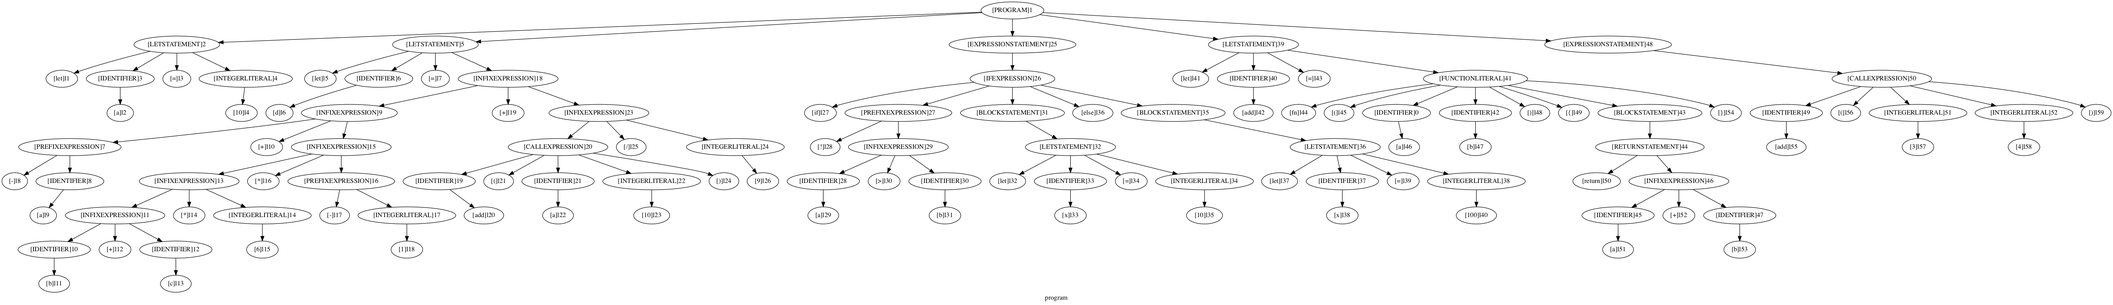
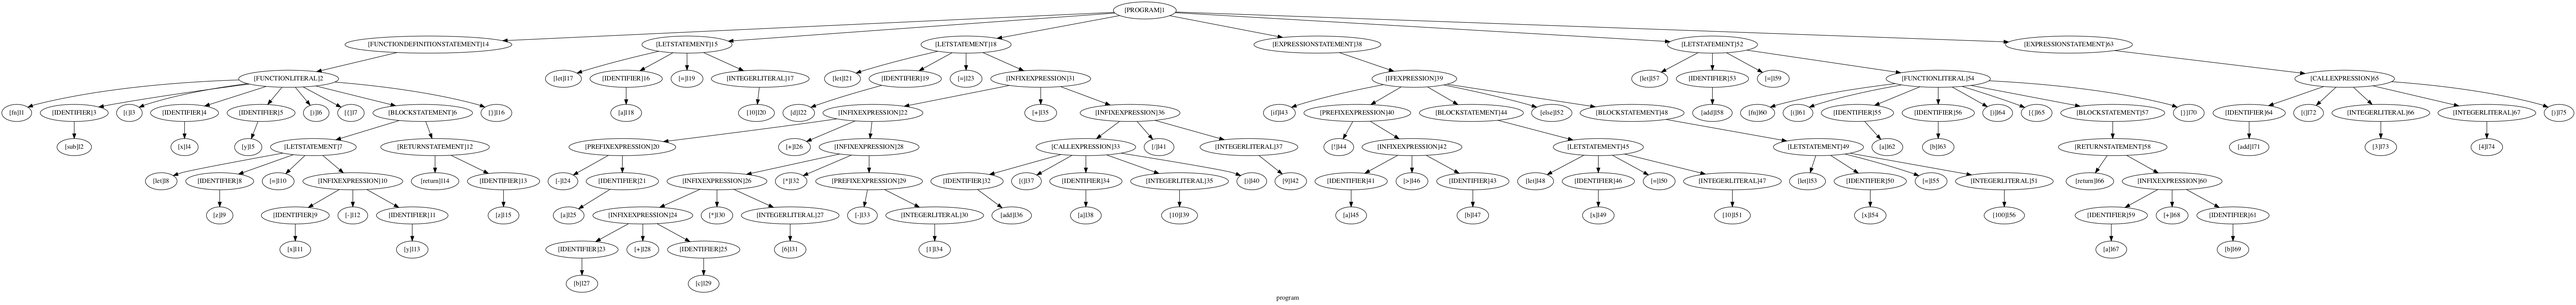
fix bugs

diff --git a/parser/parser.go b/parser/parser.go
@@ -387,6 +387,11 @@ func (p *Parser) parseStatement() ast.Statement {
 		//return p.parseAssignStatement()
 	case token.WHILE:
 		return p.parseWhileStatement()
+	case token.FUNCTION:
+		if p.peekTokenIs(token.IDENT) {
+			return p.parseFunctionDefinitionStatement()
+		}
+		return p.parseExpressionStatement()
 	default:
 		return p.parseExpressionStatement()
 	}
@@ -558,7 +563,11 @@ func (p *Parser) parseLetStatement() *ast.LetStatement {
 	stmt.Value = p.parseExpression(LOWEST)
 
 	if fl, ok := stmt.Value.(*ast.FunctionLiteral); ok {
-		fl.Name = stmt.Name.Value
+		//fl.Name = stmt.Name.Value
+		//复制一份，更新Id，否则画图出错
+		name := &ast.Identifier{Token: stmt.Name.Token, Value: stmt.Name.Value, Id: getNodeIndex()}
+		fl.Name = name
+		fl.From = ast.EXPRESSION
 	}
 
 	for p.peekTokenIs(token.SEMICOLON) {
@@ -672,6 +681,7 @@ func (p *Parser) parseFunctionParameters() []*ast.Identifier {
 	ident := &ast.Identifier{
 		Token: p.curToken,
 		Value: p.curToken.Literal,
+		Id: getNodeIndex(),
 	}
 	identifiers = append(identifiers, ident)
 
@@ -729,4 +739,36 @@ func (p *Parser) parseCallArguments() []ast.Expression {
 
 func (p *Parser) parseStringLiteral() ast.Expression {
 	return &ast.StringLiteral{Token: p.curToken, Value: p.curToken.Literal, Id: getNodeIndex()}
+}
+
+func (p *Parser) parseFunctionDefinitionStatement() *ast.FunctionDefinitionStatement {
+	fnLiteral := &ast.FunctionLiteral{
+		Token: p.curToken,
+		Id: getNodeIndex(),
+		From: ast.STATEMENT,
+	}
+	if !p.expectPeek(token.IDENT) {
+		return nil
+	}
+	fnLiteral.Name = &ast.Identifier{
+		Token: p.curToken,
+		Value: p.curToken.Literal,
+		Id: getNodeIndex(),
+	}
+	p.nextToken()
+
+	params := p.parseFunctionParameters()
+	fnLiteral.Parameters = params
+
+	p.nextToken()
+	body := p.parseBlockStatement()
+	fnLiteral.Body = body
+
+	fnStatement := &ast.FunctionDefinitionStatement{
+		Id: getNodeIndex(),
+		Token: p.curToken,
+		FnLiteral: fnLiteral,
+	}
+
+	return fnStatement
 }

diff --git a/ast/ast.go b/ast/ast.go
@@ -30,6 +30,7 @@ const (
 	ASSIGNSTATEMENT NodeType = "ASSIGNSTATEMENT"
 	ASSIGNEXPRESSION NodeType = "ASSIGNEXPRESSION"
 	WHILESTATEMENT NodeType = "WHILESTATEMENT"
+	FUNCTIONDEFINITIONSTATEMENT NodeType = "FUNCTIONDEFINITIONSTATEMENT"
 
 )
 
@@ -357,14 +358,21 @@ func (this *BlockStatement) Tag() string {
 	return fmt.Sprintf("[%s]%d", BLOCKSTATEMENT, this.Id)
 }
 
+const (
+	EXPRESSION int64 = iota
+	STATEMENT
+)
+
 type FunctionLiteral struct {
 	Token token.Token // The 'fn' token
 	Parameters [] *Identifier
 	Body *BlockStatement
 
-	Name string // function name,which mainly used to handle the closure-recursion problem
+	Name *Identifier // function name,which mainly used to handle the closure-recursion problem
 
 	Id int64
+
+	From int64
 }
 
 func (fl *FunctionLiteral) expressionNode() {
@@ -386,7 +394,7 @@ func (fl *FunctionLiteral) String() string {
 		params = append(params, p.String())
 	}
 	out.WriteString(fl.TokenLiteral())
-	if fl.Name != "" {
+	if fl.Name != nil {
 		out.WriteString(fmt.Sprintf("<%s>", fl.Name))
 	}
 	out.WriteString("(")
@@ -643,4 +651,34 @@ func (ws *WhileStatement) String() string {
 
 func (this *WhileStatement) Tag() string {
 	return fmt.Sprintf("[%s]%d", WHILESTATEMENT, this.Id)
+}
+
+type FunctionDefinitionStatement struct {
+	Name *Identifier
+	Token token.Token
+	Parameters [] *Identifier
+	Body *BlockStatement
+	Id int64
+	FnLiteral *FunctionLiteral
+}
+
+func (this *FunctionDefinitionStatement) statementNode()  {
+
+}
+
+func (this *FunctionDefinitionStatement) TokenLiteral() string {
+	return this.Token.Literal
+}
+
+func (this *FunctionDefinitionStatement) String() string {
+	var out bytes.Buffer
+
+	out.WriteString(this.FnLiteral.String())
+
+	return out.String()
+}
+
+func (this *FunctionDefinitionStatement) Tag() string {
+
+	return fmt.Sprintf("[%s]%d", FUNCTIONDEFINITIONSTATEMENT, this.Id)
 }

diff --git a/compiler/compiler.go b/compiler/compiler.go
@@ -292,7 +292,7 @@ func (c *Compiler) Compile(node ast.Node) error {
 	case *ast.FunctionLiteral:
 		c.enterScope()
 
-		if node.Name != "" {
+		if node.Name != nil {
 			// to solve self-reference problem
 			// 编译函数字面量一开始先把自己加到符号表，作用域为FunctionScope,这样自引用的变量就可以从当前符号表找到信息了，
 			// 也就是说存在于当前符号表了，也就不会被标记为自由变量了，这样就不会出现："构造自己时引用一个不存在的自己"这样的
@@ -301,7 +301,7 @@ func (c *Compiler) Compile(node ast.Node) error {
 			// 才会实际执行，OpCall指令执行的时候，Closure应经构造完成，并且OpCall指令会将其挂到当前的Stack Frame上，所以
 			// OpCurrentClosure执行的时候直接从当前的stack frame把表示当前正在执行的Closure直接加载到主stack上。
 			// 这样就解决了之前出现的自由变量自引用的导致VM崩掉的bug
-			c.symbolTable.DefineFunctionName(node.Name)
+			c.symbolTable.DefineFunctionName(node.Name.Value)
 		}
 
 		for _, p := range node.Parameters {

diff --git a/tools/gendot.go b/tools/gendot.go
@@ -15,6 +15,10 @@ var Index int64 = 0
 
 func main() {
 	input :=`
+fn sub(x,y){
+	let z=x-y
+	return z;
+}
 let a=10;
 let d=-a+(b+c)*6*-1+add(a,10)/9;
 if(!(a>b)){
@@ -165,6 +169,10 @@ func walk(node ast.Node, lines *[]string) {
 
 		*lines = append(*lines, genEdgeToNode(node, node.ReturnValue))
 		walk(node.ReturnValue, lines)
+	case *ast.FunctionDefinitionStatement:
+		*lines = append(*lines, genEdgeToNode(node, node.FnLiteral))
+		walk(node.FnLiteral, lines)
+
 	case *ast.IfExpression:
 		//*lines = append(*lines, genNode(node))
 
@@ -225,6 +233,10 @@ func walk(node ast.Node, lines *[]string) {
 		return
 	case *ast.FunctionLiteral:
 		*lines = append(*lines, genEdgeToLeaf(node, "fn"))
+		if node.Name != nil && node.From == ast.STATEMENT {
+			*lines = append(*lines, genEdgeToNode(node, node.Name))
+			walk(node.Name, lines)
+		}
 
 		*lines = append(*lines, genEdgeToLeaf(node, "("))
 

diff --git a/parser/parser_test.go b/parser/parser_test.go
@@ -843,7 +843,7 @@ func TestFunctionLiteralWithName(t *testing.T) {
 		t.Fatalf("stmt.Value is not ast.FunctionLiteral. got=%T",
 			stmt.Value)
 	}
-	if function.Name != "myFunction" {
+	if function.Name.String() != "myFunction" {
 		t.Fatalf("function literal name wrong. want 'myFunction', got=%q\n",
 			function.Name)
 	}

diff --git a/token/token.go b/token/token.go
@@ -55,6 +55,7 @@ const (
 	WHILE = "WHILE"
 	BREAK = "BREAK"
 	CONTINUE = "CONTINUE"
+
 )
 
 var keywords = map[string]TokenType{
